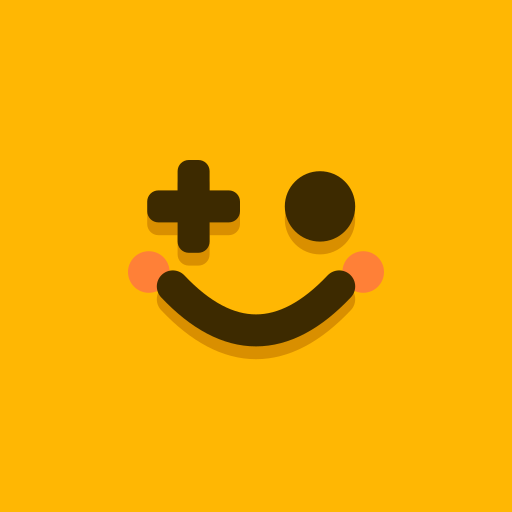
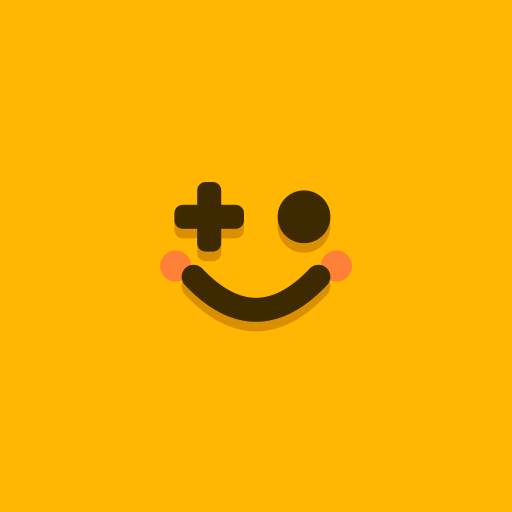
크롬 바로가기 아이콘 크기(허브 v1.5.6): 마스커블 얼굴을 0.6배로 줄여 적응형 아이콘으로 잘린 뒤 원래 로고 크기와 같게, 아이콘 주소 ?v=5

Changed region(s): [[0.25, 0.3125, 0.75, 0.7188]]

diff --git a/apps/hub/index.html b/apps/hub/index.html
@@ -8,9 +8,9 @@
     <meta name="theme-color" content="#f5f2ff" media="(prefers-color-scheme: light)" />
     <meta name="theme-color" content="#13101f" media="(prefers-color-scheme: dark)" />
     <link rel="manifest" href="manifest.webmanifest" />
-    <link rel="icon" type="image/svg+xml" href="logo.svg?v=4" />
-    <link rel="icon" type="image/png" sizes="192x192" href="pwa-192x192.png?v=4" />
-    <link rel="apple-touch-icon" href="apple-touch-icon-180x180.png?v=4" />
+    <link rel="icon" type="image/svg+xml" href="logo.svg?v=5" />
+    <link rel="icon" type="image/png" sizes="192x192" href="pwa-192x192.png?v=5" />
+    <link rel="apple-touch-icon" href="apple-touch-icon-180x180.png?v=5" />
     <meta name="apple-mobile-web-app-capable" content="yes" />
     <meta name="apple-mobile-web-app-title" content="조이팩" />
     <!-- 링크 미리보기(카카오톡·메신저·SNS). 스크래퍼는 상대 경로를 못 읽으므로 배포 주소를 그대로 적는다 -->

diff --git a/README.md b/README.md
@@ -280,6 +280,7 @@ dist/                       → https://myong558.github.io/project-joypack/
 - [x] 바로가기 아이콘 확대 해결(허브 v1.5.3): 마스커블·아이폰 아이콘을 안쪽 둥근 상자 없이 레몬색을 끝까지 채우고 얼굴만 얹음(마스커블은 0.8배로 줄여 가운데 66%만 보이는 브라우저 바로가기에서도 안 잘림). 아이콘 주소 `?v=3`.
 - [x] 허브 간격 더 띄움(허브 v1.5.4): 위 메뉴와 로고 사이 14px → 30px(키 작은 화면 18px). 준비 중 그림 칸 딤을 더 옅게(라이트 10%, 다크 22%) 해 배경이 더 비침.
 - [x] 바로가기 아이콘 확대 다시 해결(허브 v1.5.5): 브라우저 바로가기가 마스커블 대신 일반 아이콘을 잘라 쓰는 경우까지 막도록 pwa-192·512도 꽉 찬 레몬색 + 얼굴(0.8배)로 바꾸고, manifest 에서 logo.svg(둥근 상자) 아이콘을 뺌. 아이콘 주소 `?v=4`.
+- [x] 크롬 바로가기 아이콘 크기(허브 v1.5.6): 안드로이드 Chrome 바로가기는 마스커블을 적응형 아이콘으로 넣어 가운데 약 66%만 보이므로(1.5배 확대) 마스커블 얼굴을 0.8 → 0.6배로 줄여 잘린 뒤 원래 로고 크기와 같게 함. 아이콘 주소 `?v=5`.
   공유 링크로 게임에 바로 들어온 사람에게는 화면 아래 "조이팩 앱으로 설치하기" 띠(`Joypack.inviteBar`)를 보여 주고, 누르면 허브의 설치 안내 카드로 이어진다
   공유 링크는 `?from=share` 가 붙어, 받은 사람이 열면 첫 화면 맨 위에 설치 안내 카드가 뜬다. 카카오톡 등 앱 안 브라우저에서는 설치가 안 되므로 "브라우저로 열기"(카카오톡은 `kakaotalk://web/openExternal`, 그 밖의 안드로이드 앱은 Chrome intent)로 넘긴다. 아이폰의 앱 안 브라우저는 "Safari로 열기" 안내만 한다
 
